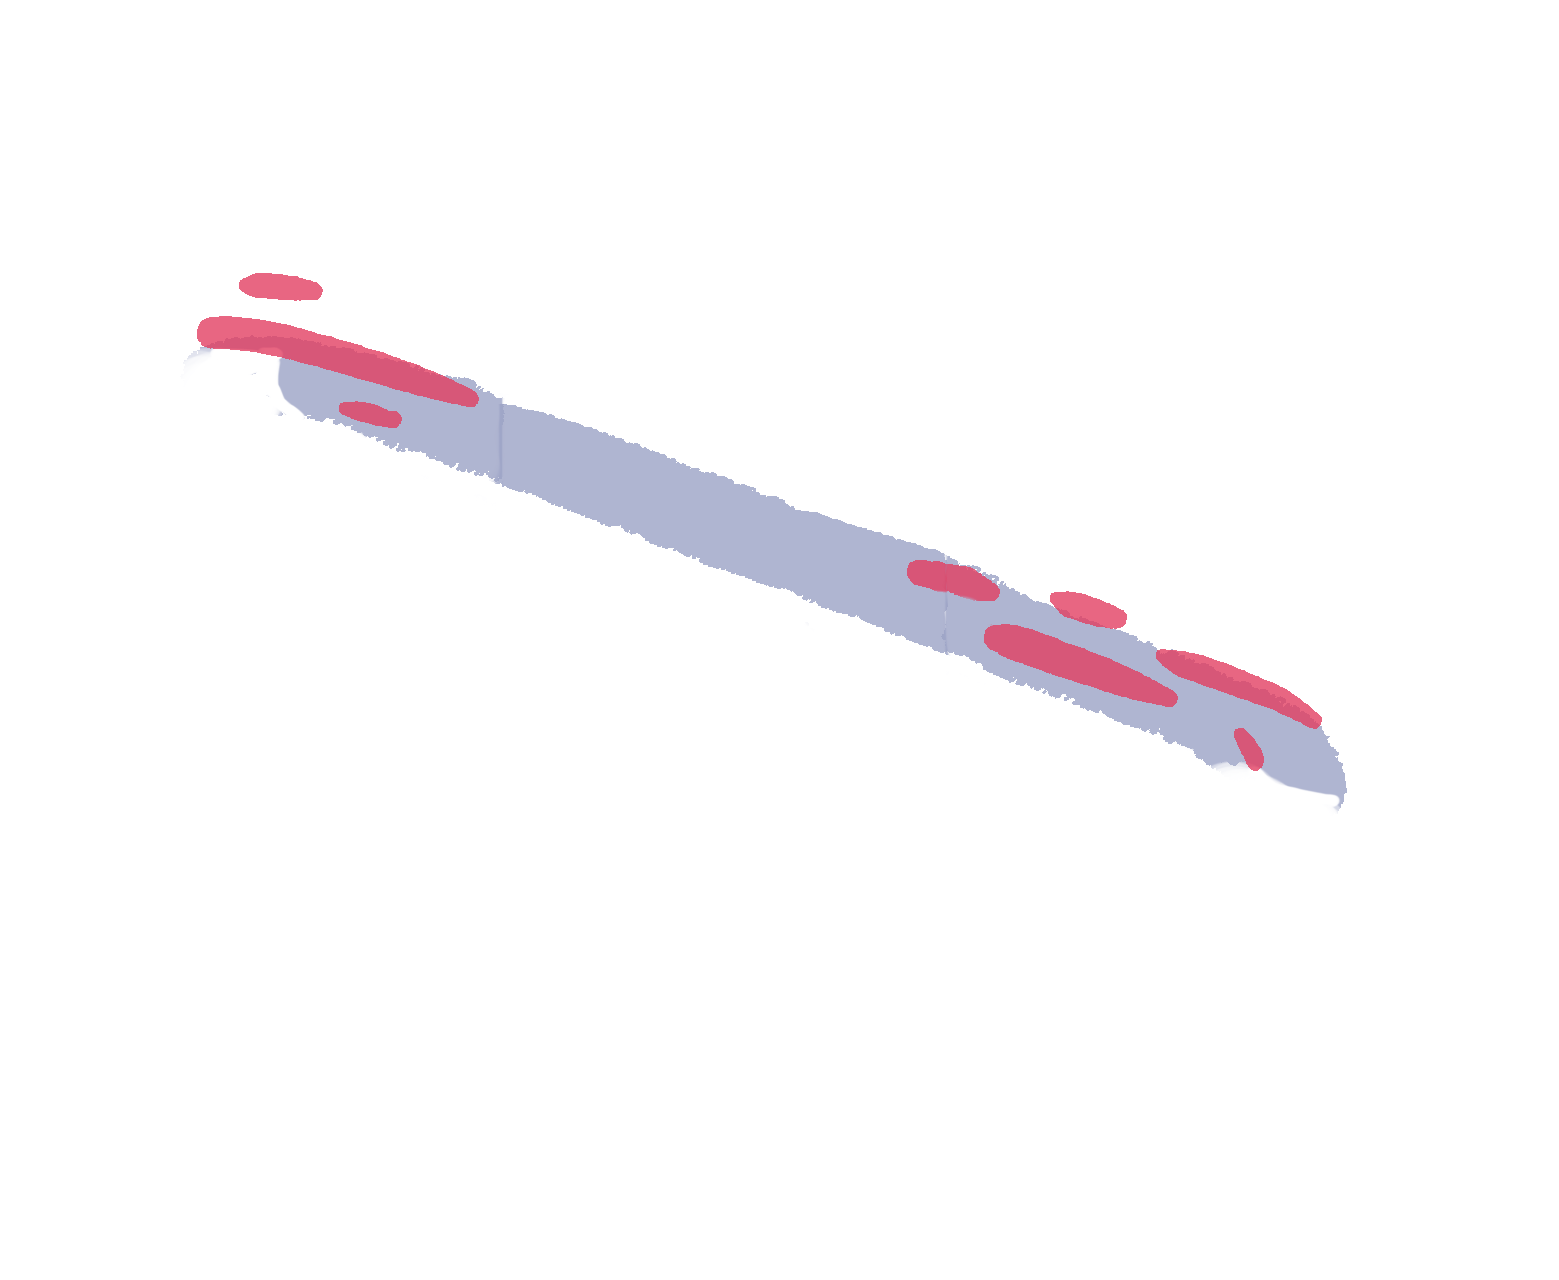
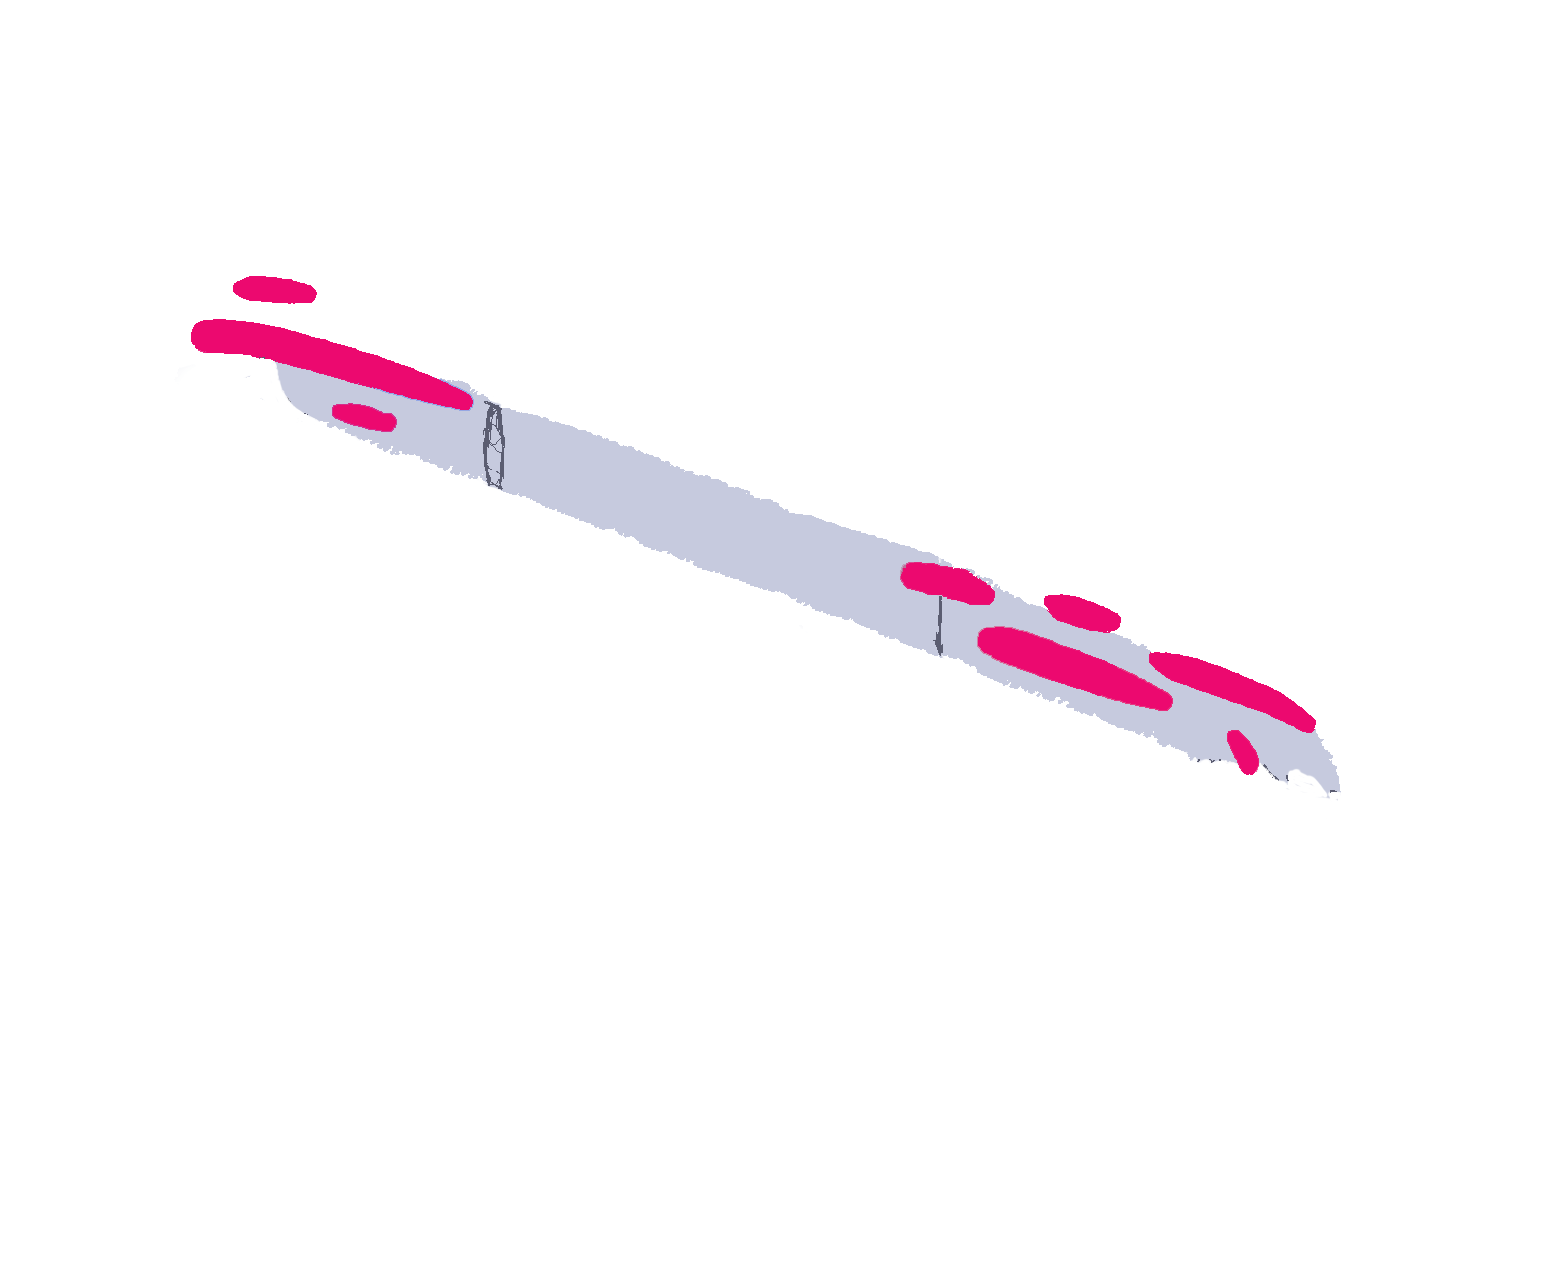
ajout des derniers accessoires

diff --git a/generator.html b/generator.html
@@ -40,7 +40,10 @@
     "accessories/acc10.png",
     "accessories/acc11.png",
     "accessories/acc11b.png",
-    "accessories/acc12.gif"
+    "accessories/acc14.png",
+    "accessories/acc15.png",
+    "accessories/acc15b.png",
+    "accessories/acc16.png"
 
     ]
 
@@ -57,7 +60,10 @@
     $('<img id="ten">'),
     $('<img id="eleven">'),
     $('<img id="elevenbis">'),
-    $('<img id="twelve">')
+    $('<img id="fourteen">'),
+    $('<img id="fifteen">'),
+    $('<img id="fifteenbis">'),
+    $('<img id="sixteen">')
 
     ]
 
@@ -185,6 +191,19 @@
                     case 110:
                     $("#eleven").drawAccessory(10);
                     $("#elevenbis").drawAccessory(11);
+                    break;
+
+                    case 99:
+                    $("#fourteen").drawAccessory(12); 
+                    break;
+
+                    case 98:
+                    $("#fifteen").drawAccessory(13); 
+                    $("#fifteenbis").drawAccessory(14);
+                    break;
+
+                    case 118:
+                    $("#sixteen").drawAccessory(15); 
                     break;
 
 

diff --git a/generator.css b/generator.css
@@ -25,6 +25,11 @@ img {
     margin-left: 210px;
 }
 
+#sixteen {
+    z-index: 1003;
+    margin-left: 300px;
+}
+
 #eight {
     z-index: 1000;
     margin-left: 200px;
@@ -51,11 +56,25 @@ img {
 
 #elevenbis,
 #eleven     {
-    margin-left: 250px;
+    margin-left: 235px;
 }
 
 #eleven {
     z-index: 1001;
+}
+
+#fifteenbis,
+#fifteen     {
+    margin-left: 235px;
+}
+
+#fifteen {
+    z-index: 1002;
+}
+
+#fourteen {
+    margin-left: 218px;
+    z-index: 999;
 }
 
 p#instructions {
